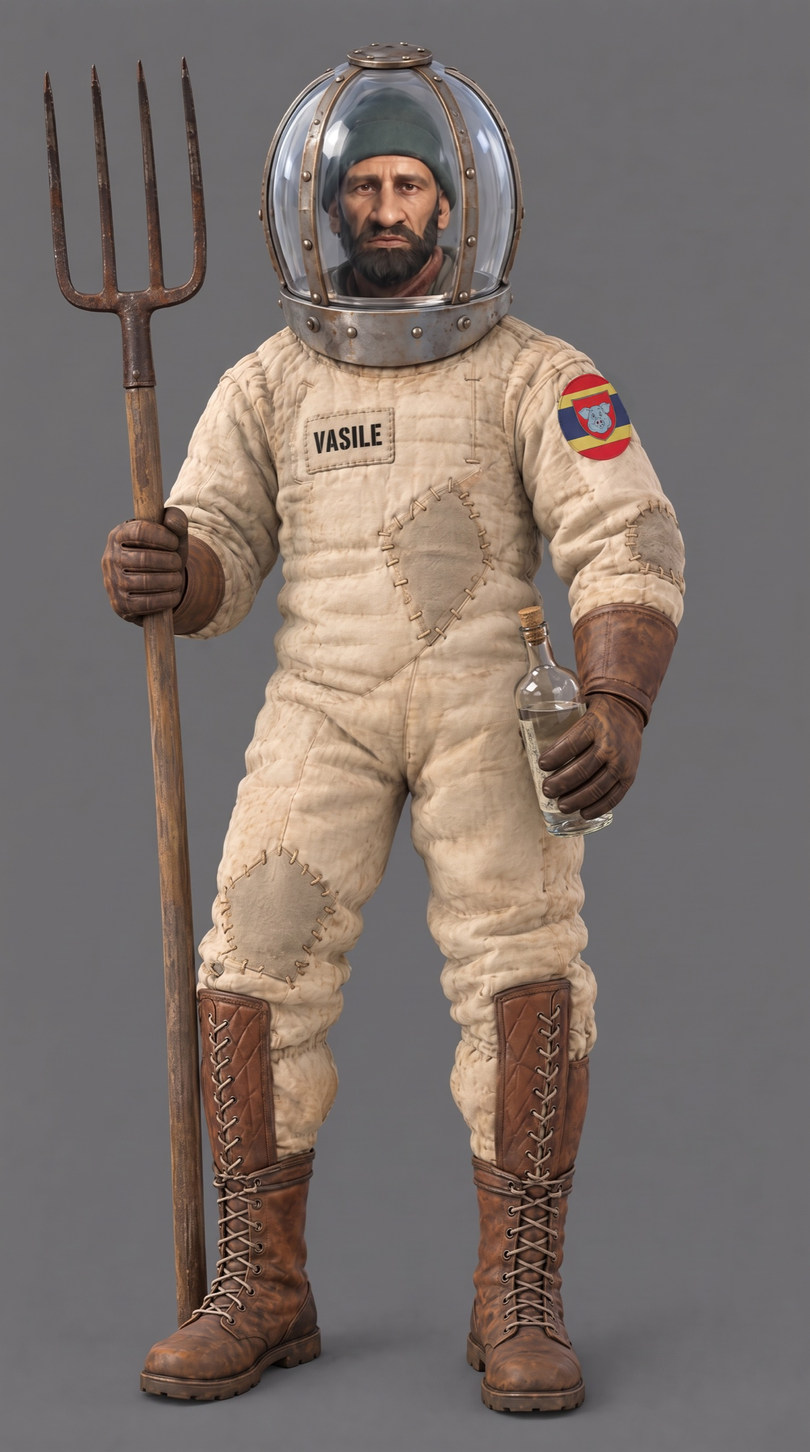
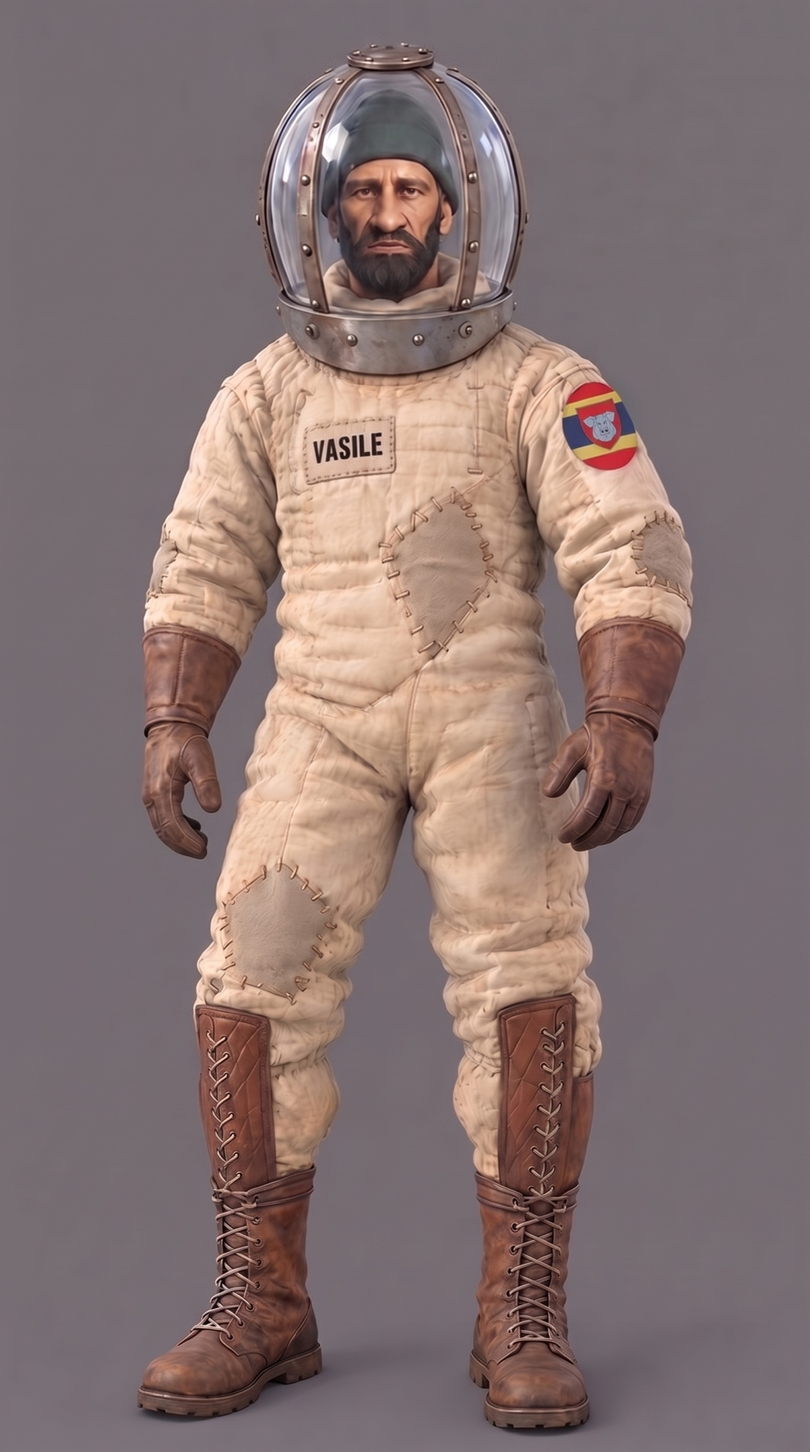
Storyboard update ecc5191705f4

Changed region(s): [[0.0306, 0.0312, 0.8574, 1.0]]

diff --git a/index.html b/index.html
@@ -768,7 +768,7 @@ problems are over"</blockquote>
   </footer>
 </div>
 
-<div id="panel-ep4" role="tabpanel" aria-labelledby="tab-ep4" hidden><section><div class="shead"><h2>Episode 4 — Star Wars</h2><span class="count">Working title · first draft</span></div><div class="rule"></div><p class="sintro">Aliens defeat every army on Earth. Humanity’s last hope is a village of drunks. Script from Nir, 16 September 2026. The references below identify the existing cast; the generals and alien portraits are approved; space costumes remain to be designed.</p><nav class="epnav"><a href="#ep4cast">Character references</a><a href="#ep4missing">New characters</a><a href="#ep4aliens">Choose an alien</a><a href="#ep4planned-images">Planned images</a><a href="#ep4beats">Story beats</a><a href="#ep4script">Full script</a></nav></section><section id="ep4cast"><div class="shead"><h2>Returning cast</h2><span class="count">5 leads + village extras</span></div><div class="rule"></div><div class="grid"><article class="card"><a class="frame full" href="img/full/characters/bribeanu/bribeanu-closeup.jpg" target="_blank" rel="noopener"><img loading="lazy" src="img/thumb/characters/bribeanu/bribeanu-closeup.jpg" alt="Bribeanu — existing 3D reference" data-full="img/full/characters/bribeanu/bribeanu-closeup.jpg" decoding="async"></a><div class="plate"><div class="namerow"><h3>Bribeanu</h3><span class="flag">EXISTING</span></div><p class="tell">The mayor who pretends not to understand English until the generals pay him.</p></div></article><article class="card"><a class="frame full" href="img/full/characters/vasile/vasile-closeup.jpg" target="_blank" rel="noopener"><img loading="lazy" src="img/thumb/characters/vasile/vasile-closeup.jpg" alt="Vasile — existing 3D reference" data-full="img/full/characters/vasile/vasile-closeup.jpg" decoding="async"></a><div class="plate"><div class="namerow"><h3>Vasile</h3><span class="flag">EXISTING</span></div><p class="tell">One of the two Vasluinauts, sent into space with a bottle and a pitchfork.</p></div></article><article class="card"><a class="frame full" href="img/full/characters/viorel/viorel-closeup.jpg" target="_blank" rel="noopener"><img loading="lazy" src="img/thumb/characters/viorel/viorel-closeup.jpg" alt="Viorel — existing 3D reference" data-full="img/full/characters/viorel/viorel-closeup.jpg" decoding="async"></a><div class="plate"><div class="namerow"><h3>Viorel</h3><span class="flag">EXISTING</span></div><p class="tell">The other Vasluinaut, who takes his axe into space.</p></div></article><article class="card"><a class="frame full" href="img/full/characters/valeriu/valeriu-closeup.jpg" target="_blank" rel="noopener"><img loading="lazy" src="img/thumb/characters/valeriu/valeriu-closeup.jpg" alt="Valeriu — existing 3D reference" data-full="img/full/characters/valeriu/valeriu-closeup.jpg" decoding="async"></a><div class="plate"><div class="namerow"><h3>Valeriu</h3><span class="flag">EXISTING</span></div><p class="tell">The pig who pilots the onion ship and pumps the Mona.</p></div></article><article class="card"><a class="frame full" href="img/full/characters/radu/radu-closeup.jpg" target="_blank" rel="noopener"><img loading="lazy" src="img/thumb/characters/radu/radu-closeup.jpg" alt="Radu — existing 3D reference" data-full="img/full/characters/radu/radu-closeup.jpg" decoding="async"></a><div class="plate"><div class="namerow"><h3>Radu</h3><span class="flag">EXISTING</span></div><p class="tell">The heavy old drunk who launches the onion ship.</p></div></article><article class="card"><a class="frame full" href="img/full/characters/_villagers/vaslui-villagers-men-01.jpg" target="_blank" rel="noopener"><img loading="lazy" src="img/thumb/characters/_villagers/vaslui-villagers-men-01.jpg" alt="Village men — existing 3D reference" data-full="img/full/characters/_villagers/vaslui-villagers-men-01.jpg" decoding="async"></a><div class="plate"><div class="namerow"><h3>Village men</h3><span class="flag">EXISTING</span></div><p class="tell">The drunk men in the crowd at the launch.</p></div></article><article class="card"><a class="frame full" href="img/full/characters/_villagers/vaslui-villagers-women-01.jpg" target="_blank" rel="noopener"><img loading="lazy" src="img/thumb/characters/_villagers/vaslui-villagers-women-01.jpg" alt="Village women — existing 3D reference" data-full="img/full/characters/_villagers/vaslui-villagers-women-01.jpg" decoding="async"></a><div class="plate"><div class="namerow"><h3>Village women</h3><span class="flag">EXISTING</span></div><p class="tell">The village women in the crowd at the launch.</p></div></article></div></section><section id="ep4missing"><div class="shead"><h2>New characters</h2><span class="count">2 approved · 2 still to choose</span></div><div class="rule"></div><div class="grid"><article class="card"><a class="frame full" href="img/full/characters/general-01/general-01-closeup.jpg" target="_blank" rel="noopener"><img loading="lazy" src="img/thumb/characters/general-01/general-01-closeup.jpg" alt="General 01 — approved portrait" data-full="img/full/characters/general-01/general-01-closeup.jpg" decoding="async"></a><div class="plate"><div class="namerow"><h3>General 01</h3><span class="flag">APPROVED</span></div><p class="tell">The silver-haired general sent to Vaslui to beg the mayor for help.</p></div></article><article class="card"><a class="frame full" href="img/full/characters/general-02/general-02-closeup.jpg" target="_blank" rel="noopener"><img loading="lazy" src="img/thumb/characters/general-02/general-02-closeup.jpg" alt="General 02 — approved portrait" data-full="img/full/characters/general-02/general-02-closeup.jpg" decoding="async"></a><div class="plate"><div class="namerow"><h3>General 02</h3><span class="flag">APPROVED</span></div><p class="tell">The second general sent to Vaslui to recruit the village.</p></div></article><article class="card"><div class="pending">NOT CHOSEN YET</div><div class="plate"><div class="namerow"><h3>Alien commander</h3><span class="flag">PENDING</span></div><p class="tell">Chosen from the alien vote below.</p></div></article><article class="card"><div class="pending">NOT CHOSEN YET</div><div class="plate"><div class="namerow"><h3>Alien crew</h3><span class="flag">PENDING</span></div><p class="tell">Chosen from the alien vote below.</p></div></article></div></section><section id="ep4aliens"><div class="shead"><h2>Choose your favourite alien</h2><span class="count">3 options</span></div><div class="rule"></div><p class="sintro">The three directions that got a like. Open each one, like the one you connect with most, and leave a comment on anything you would change.</p><div class="grid"><article class="card"><a class="frame full" href="img/full/episodes/ep-04-starwars/references/alien-options/alien-B-officer.jpg" target="_blank" rel="noopener"><img loading="lazy" src="img/thumb/episodes/ep-04-starwars/references/alien-options/alien-B-officer.jpg" alt="Alien option B: The Officer" data-full="img/full/episodes/ep-04-starwars/references/alien-options/alien-B-officer.jpg" decoding="async"></a><div class="plate"><div class="namerow"><h3>Alien B — The Officer</h3><span class="flag">OPTION B</span></div><p class="tell">A tall insect general who looks down on humanity from a very long head.</p></div></article><article class="card"><a class="frame full" href="img/full/episodes/ep-04-starwars/references/alien-options/alien-C-bureaucrat.jpg" target="_blank" rel="noopener"><img loading="lazy" src="img/thumb/episodes/ep-04-starwars/references/alien-options/alien-C-bureaucrat.jpg" alt="Alien option C: The Bureaucrat" data-full="img/full/episodes/ep-04-starwars/references/alien-options/alien-C-bureaucrat.jpg" decoding="async"></a><div class="plate"><div class="namerow"><h3>Alien C — The Bureaucrat</h3><span class="flag">OPTION C</span></div><p class="tell">A senior clerk of a superior civilisation, with a giant brain and a sour little face.</p></div></article><article class="card"><a class="frame full" href="img/full/characters/alien-commander/alien-commander-closeup.jpg" target="_blank" rel="noopener"><img loading="lazy" src="img/thumb/characters/alien-commander/alien-commander-closeup.jpg" alt="Alien H — Blue Commander" data-full="img/full/characters/alien-commander/alien-commander-closeup.jpg" decoding="async"></a><div class="plate"><div class="namerow"><h3>Alien H — Blue Commander</h3><span class="flag">OPTION H</span></div><p class="tell">A muscular blue warrior who leads the same species as the Blue Soldier.</p></div></article></div></section><section><h2>Props and costumes</h2><div class="grid"><article class="card"><a class="frame full" href="img/full/props/mona/mona-alcool-sanitar.jpg" target="_blank" rel="noopener"><img loading="lazy" src="img/thumb/props/mona/mona-alcool-sanitar.jpg" alt="Mona — existing 3D reference" data-full="img/full/props/mona/mona-alcool-sanitar.jpg" decoding="async"></a><div class="plate"><div class="namerow"><h3>Mona</h3><span class="flag">EXISTING</span></div><p class="tell">The rubbing alcohol that wins the war, and the label for the giant tank.</p></div></article><article class="card"><a class="frame full" href="img/full/downloads/2026-09-17/02_vaslui-flag-REAL-valeriu-shield.jpg" target="_blank" rel="noopener"><img loading="lazy" src="img/thumb/downloads/2026-09-17/02_vaslui-flag-REAL-valeriu-shield.jpg" alt="The Vaslui flag — approved design" data-full="img/full/downloads/2026-09-17/02_vaslui-flag-REAL-valeriu-shield.jpg" decoding="async"></a><div class="plate"><div class="namerow"><h3>The Vaslui flag</h3><span class="flag">APPROVED</span></div><p class="tell">The real county flag, with Valeriu's face filling the shield in place of the beehive, fish and ox. Goes on the ship and on the spacesuit shoulders.</p></div></article></div><p class="sintro">Still to design: Vasile and Viorel’s spacesuits, Valeriu’s spacesuit, the onion ship (inside and outside), alien mothership, mayor’s office, Mona tank and hose. The chest patches read VASILE / VIOREL; the shoulders carry the Vaslui flag above.</p></section><section id="ep4planned-images"><div class="shead"><h2>Planned images</h2><span class="count">4 references to prepare</span></div><div class="rule"></div><div class="grid"><article class="card" id="ep4-vaslui-ship-exterior"><a class="frame full" href="img/full/episodes/ep-04-starwars/references/ship/ship-exterior-approved.jpg" target="_blank" rel="noopener"><img loading="lazy" src="img/thumb/episodes/ep-04-starwars/references/ship/ship-exterior-approved.jpg" alt="Vasluian ship — exterior, approved" data-full="img/full/episodes/ep-04-starwars/references/ship/ship-exterior-approved.jpg" decoding="async"></a><div class="plate"><div class="namerow"><h3>Vasluian ship — exterior</h3><span class="flag">APPROVED</span></div><p class="tell">Redesigned 17 Sep 2026: the hull is now literal onion skin — pale papery ivory-cream, crinkled and striated like a real onion, with loose skin-flap repairs tied down with twine instead of welded metal patches. Replaces the earlier bare-metal version.</p></div></article><article class="card" id="ep4-vaslui-ship-interior"><div class="pending">IMAGE PENDING</div><div class="plate"><h3>Vasluian ship — interior</h3><p class="tell">Pig pilot’s cockpit, Mona tank area and exit hatch.</p></div></article><article class="card" id="ep4-alien-ship-exterior"><div class="pending">IMAGE PENDING</div><div class="plate"><h3>Alien mothership — exterior</h3><p class="tell">Exterior design of the alien mothership.</p></div></article><article class="card" id="ep4-alien-ship-interior"><div class="pending">IMAGE PENDING</div><div class="plate"><h3>Alien mothership — interior</h3><p class="tell">Command bridge and screen, with room for the Mona flood and final scene.</p></div></article><article class="card" id="ep4-mayor-office"><a class="frame full" href="img/full/locations/bribeanu-office/bribeanu-office-9x16.jpg" target="_blank" rel="noopener"><img loading="lazy" src="img/thumb/locations/bribeanu-office/bribeanu-office-9x16.jpg" alt="Bribeanu’s office — approved location" data-full="img/full/locations/bribeanu-office/bribeanu-office-9x16.jpg" decoding="async"></a><div class="plate"><div class="namerow"><h3>Bribeanu’s office</h3><span class="flag">APPROVED</span></div><p class="tell">The mayor’s gold-trimmed office, far too grand for the muddy village outside its window.</p></div></article><article class="card" id="ep4-launch-site"><a class="frame full" href="img/full/episodes/ep-04-starwars/references/launch-site/launch-site-approved.jpg" target="_blank" rel="noopener"><img loading="lazy" src="img/thumb/episodes/ep-04-starwars/references/launch-site/launch-site-approved.jpg" alt="Village launch site — approved" data-full="img/full/episodes/ep-04-starwars/references/launch-site/launch-site-approved.jpg" decoding="async"></a><div class="plate"><div class="namerow"><h3>Village launch site</h3><span class="flag">APPROVED</span></div><p class="tell">Episode 1's village square, the wooden stage replaced by the ship standing directly on the ground — roughly twice the height of the surrounding cottages, braced by a small crane (not attached, so it can still fly), a low dingy maintenance shed, and a red launch-button post in the foreground. The tree stands clear of the ship's path. Updated 17 Sep 2026 for the ship's new onion-skin hull.</p></div></article><article class="card" id="ep4-suit-design"><a class="frame full" href="img/full/episodes/ep-04-starwars/references/spacesuit/suit-design-approved.jpg" target="_blank" rel="noopener"><img loading="lazy" src="img/thumb/episodes/ep-04-starwars/references/spacesuit/suit-design-approved.jpg" alt="The antique spacesuit design — approved, empty" data-full="img/full/episodes/ep-04-starwars/references/spacesuit/suit-design-approved.jpg" decoding="async"></a><div class="plate"><div class="namerow"><h3>Spacesuit design</h3><span class="flag">APPROVED</span></div><p class="tell">Antique diving-style suit — mended canvas, panoramic glass dome helmet, Vaslui flag patch on the right shoulder. Shown empty; each lead gets dressed in this same design next.</p></div></article><article class="card" id="ep4-vasile-spacesuit"><a class="frame full" href="img/full/characters/vasile/vasile-spacesuit.jpg" target="_blank" rel="noopener"><img loading="lazy" src="img/thumb/characters/vasile/vasile-spacesuit.jpg" alt="Vasile — spacesuit — approved" data-full="img/full/characters/vasile/vasile-spacesuit.jpg" decoding="async"></a><div class="plate"><div class="namerow"><h3>Vasile — spacesuit</h3><span class="flag">APPROVED</span></div><p class="tell">Vasile suited up for space, with his pitchfork and a bottle.</p></div></article><article class="card" id="ep4-vasile-inside"><a class="frame full" href="img/full/characters/vasile/vasile-spacesuit-nohelmet.jpg" target="_blank" rel="noopener"><img loading="lazy" src="img/thumb/characters/vasile/vasile-spacesuit-nohelmet.jpg" alt="Vasile — inside the ship — approved" data-full="img/full/characters/vasile/vasile-spacesuit-nohelmet.jpg" decoding="async"></a><div class="plate"><div class="namerow"><h3>Vasile — inside the ship</h3><span class="flag">APPROVED</span></div><p class="tell">Vasile in his spacesuit without the helmet, the way he walks around inside the ship.</p></div></article><article class="card" id="ep4-viorel-spacesuit"><a class="frame full" href="img/full/characters/viorel/viorel-spacesuit.jpg" target="_blank" rel="noopener"><img loading="lazy" src="img/thumb/characters/viorel/viorel-spacesuit.jpg" alt="Viorel — spacesuit — approved" data-full="img/full/characters/viorel/viorel-spacesuit.jpg" decoding="async"></a><div class="plate"><div class="namerow"><h3>Viorel — spacesuit</h3><span class="flag">APPROVED</span></div><p class="tell">Viorel suited up for space, with his red hatchet.</p></div></article><article class="card" id="ep4-viorel-inside"><a class="frame full" href="img/full/characters/viorel/viorel-spacesuit-nohelmet.jpg" target="_blank" rel="noopener"><img loading="lazy" src="img/thumb/characters/viorel/viorel-spacesuit-nohelmet.jpg" alt="Viorel — inside the ship — approved" data-full="img/full/characters/viorel/viorel-spacesuit-nohelmet.jpg" decoding="async"></a><div class="plate"><div class="namerow"><h3>Viorel — inside the ship</h3><span class="flag">APPROVED</span></div><p class="tell">Viorel in his spacesuit without the helmet, the way he walks around inside the ship.</p></div></article><article class="card" id="ep4-valeriu-spacesuit"><a class="frame full" href="img/full/characters/valeriu/valeriu-spacesuit.jpg" target="_blank" rel="noopener"><img loading="lazy" src="img/thumb/characters/valeriu/valeriu-spacesuit.jpg" alt="Valeriu — spacesuit, approved" data-full="img/full/characters/valeriu/valeriu-spacesuit.jpg" decoding="async"></a><div class="plate"><div class="namerow"><h3>Valeriu — spacesuit</h3><span class="flag">APPROVED</span></div><p class="tell">Same suit design, adapted to his four-legged body: cloven hooves, the hat mounted on the helmet crown with a few curls showing through the glass, his exact gold Vaslui chain worn over the suit.</p></div></article><article class="card" id="ep4-valeriu-inside"><a class="frame full" href="img/full/characters/valeriu/valeriu-spacesuit-nohelmet.jpg" target="_blank" rel="noopener"><img loading="lazy" src="img/thumb/characters/valeriu/valeriu-spacesuit-nohelmet.jpg" alt="Valeriu — inside the ship — approved" data-full="img/full/characters/valeriu/valeriu-spacesuit-nohelmet.jpg" decoding="async"></a><div class="plate"><div class="namerow"><h3>Valeriu — inside the ship</h3><span class="flag">APPROVED</span></div><p class="tell">Valeriu in his pig spacesuit without the helmet, gold chain on, the way he flies the ship.</p></div></article><article class="card" id="ep4-mona-tank"><a class="frame full" href="img/full/episodes/ep-04-starwars/_work/vasluian-ship-mona-tank/mona-tank-v4-gpt25.jpg" target="_blank" rel="noopener"><img loading="lazy" src="img/thumb/episodes/ep-04-starwars/_work/vasluian-ship-mona-tank/mona-tank-v4-gpt25.jpg" alt="Mona tank — approved" data-full="img/full/episodes/ep-04-starwars/_work/vasluian-ship-mona-tank/mona-tank-v4-gpt25.jpg" decoding="async"></a><div class="plate"><div class="namerow"><h3>Mona tank</h3><span class="flag">APPROVED</span></div><p class="tell">The Mona weapon tank, wall-mounted inside the ship — a wide, bulky tank roughly 2m tall and 1m wide, with a visible internal dip-tube in the liquid and a transparent feed line running up to the ceiling. Shot pulled back to show the tank's true scale against the room.</p></div></article><article class="card" id="ep4-mona-hose"><div class="pending">IMAGE PENDING</div><div class="plate"><h3>Hose and coupling</h3><p class="tell">Large hose and connector for the alien ship.</p></div></article></div></section><section id="ep4beats"><h2>The story, in order</h2><p class="sintro">Ten story beats from the draft; shot timing is not locked.</p><div class="beats"><article class="beat"><span class="count">01 · British narrator · alien ships</span><h3>Earth under invasion</h3><p>Alien ships hover over familiar landmarks while the British narrator describes humanity’s defeat.</p></article><article class="beat"><span class="count">02 · Bribeanu · army generals</span><h3>The last hope</h3><p>Generals ask Mayor Bribeanu to deploy the Vasluians. He claims not to understand their English.</p></article><article class="beat"><span class="count">03 · Bribeanu · army generals</span><h3>The bribe</h3><p>Cash lands on the desk. Bribeanu switches to perfect English: “Deploy the Vasluinauts!”</p></article><article class="beat"><span class="count">04 · Radu · Valeriu · village crowd</span><h3>Launch</h3><p>Radu launches a battered onion-shaped spaceship from muddy Vaslui, with Valeriu at the controls.</p></article><article class="beat"><span class="count">05 · Spaceships</span><h3>Face to face</h3><p>The village ship approaches the alien mothership in space.</p></article><article class="beat"><span class="count">06 · Vasile · Viorel</span><h3>The Vasluinauts</h3><p>Vasile and Viorel emerge in antique diving-style spacesuits, carrying a bottle, pitchfork and axe.</p></article><article class="beat"><span class="count">07 · Alien commander · alien crew</span><h3>Alien laughter</h3><p>The commander and crew watch the two villagers on their screen and laugh.</p></article><article class="beat"><span class="count">08 · Valeriu · Vasile · Viorel</span><h3>The hose</h3><p>Valeriu drags the hose from the huge Mona tank; Vasile and Viorel attach it to the alien ship.</p></article><article class="beat"><span class="count">09 · Valeriu · alien commander and crew</span><h3>Mona attack</h3><p>Valeriu presses the red button. Mona floods the ship; the aliens become drunk, then drop dead.</p></article><article class="beat"><span class="count">10 · Vasile · Viorel · alien commander</span><h3>The barbecue</h3><p>Inside the mothership, Vasile and Viorel spit-roast the alien commander and toast with their bottles.</p></article></div></section><section id="ep4script"><div class="shead"><h2>Full script</h2><a href="files/episodes/ep-04-starwars/script/ep-04-client-original.txt">Open original script</a></div><div class="script"><pre class="client-script" style="white-space:pre-wrap;overflow-wrap:anywhere;font:inherit;line-height:1.7;color:var(--ink-soft);margin:0">Its first draft only:
+<div id="panel-ep4" role="tabpanel" aria-labelledby="tab-ep4" hidden><section><div class="shead"><h2>Episode 4 — Star Wars</h2><span class="count">Working title · first draft</span></div><div class="rule"></div><p class="sintro">Aliens defeat every army on Earth. Humanity’s last hope is a village of drunks. Script from Nir, 16 September 2026. The references below identify the existing cast; the generals and alien portraits are approved; space costumes remain to be designed.</p><nav class="epnav"><a href="#ep4cast">Character references</a><a href="#ep4missing">New characters</a><a href="#ep4aliens">Choose an alien</a><a href="#ep4planned-images">Planned images</a><a href="#ep4beats">Story beats</a><a href="#ep4script">Full script</a></nav></section><section id="ep4cast"><div class="shead"><h2>Returning cast</h2><span class="count">5 leads + village extras</span></div><div class="rule"></div><div class="grid"><article class="card"><a class="frame full" href="img/full/characters/bribeanu/bribeanu-closeup.jpg" target="_blank" rel="noopener"><img loading="lazy" src="img/thumb/characters/bribeanu/bribeanu-closeup.jpg" alt="Bribeanu — existing 3D reference" data-full="img/full/characters/bribeanu/bribeanu-closeup.jpg" decoding="async"></a><div class="plate"><div class="namerow"><h3>Bribeanu</h3><span class="flag">EXISTING</span></div><p class="tell">The mayor who pretends not to understand English until the generals pay him.</p></div></article><article class="card"><a class="frame full" href="img/full/characters/vasile/vasile-closeup.jpg" target="_blank" rel="noopener"><img loading="lazy" src="img/thumb/characters/vasile/vasile-closeup.jpg" alt="Vasile — existing 3D reference" data-full="img/full/characters/vasile/vasile-closeup.jpg" decoding="async"></a><div class="plate"><div class="namerow"><h3>Vasile</h3><span class="flag">EXISTING</span></div><p class="tell">One of the two Vasluinauts, sent into space with a bottle and a pitchfork.</p></div></article><article class="card"><a class="frame full" href="img/full/characters/viorel/viorel-closeup.jpg" target="_blank" rel="noopener"><img loading="lazy" src="img/thumb/characters/viorel/viorel-closeup.jpg" alt="Viorel — existing 3D reference" data-full="img/full/characters/viorel/viorel-closeup.jpg" decoding="async"></a><div class="plate"><div class="namerow"><h3>Viorel</h3><span class="flag">EXISTING</span></div><p class="tell">The other Vasluinaut, who takes his axe into space.</p></div></article><article class="card"><a class="frame full" href="img/full/characters/valeriu/valeriu-closeup.jpg" target="_blank" rel="noopener"><img loading="lazy" src="img/thumb/characters/valeriu/valeriu-closeup.jpg" alt="Valeriu — existing 3D reference" data-full="img/full/characters/valeriu/valeriu-closeup.jpg" decoding="async"></a><div class="plate"><div class="namerow"><h3>Valeriu</h3><span class="flag">EXISTING</span></div><p class="tell">The pig who pilots the onion ship and pumps the Mona.</p></div></article><article class="card"><a class="frame full" href="img/full/characters/radu/radu-closeup.jpg" target="_blank" rel="noopener"><img loading="lazy" src="img/thumb/characters/radu/radu-closeup.jpg" alt="Radu — existing 3D reference" data-full="img/full/characters/radu/radu-closeup.jpg" decoding="async"></a><div class="plate"><div class="namerow"><h3>Radu</h3><span class="flag">EXISTING</span></div><p class="tell">The heavy old drunk who launches the onion ship.</p></div></article><article class="card"><a class="frame full" href="img/full/characters/_villagers/vaslui-villagers-men-01.jpg" target="_blank" rel="noopener"><img loading="lazy" src="img/thumb/characters/_villagers/vaslui-villagers-men-01.jpg" alt="Village men — existing 3D reference" data-full="img/full/characters/_villagers/vaslui-villagers-men-01.jpg" decoding="async"></a><div class="plate"><div class="namerow"><h3>Village men</h3><span class="flag">EXISTING</span></div><p class="tell">The drunk men in the crowd at the launch.</p></div></article><article class="card"><a class="frame full" href="img/full/characters/_villagers/vaslui-villagers-women-01.jpg" target="_blank" rel="noopener"><img loading="lazy" src="img/thumb/characters/_villagers/vaslui-villagers-women-01.jpg" alt="Village women — existing 3D reference" data-full="img/full/characters/_villagers/vaslui-villagers-women-01.jpg" decoding="async"></a><div class="plate"><div class="namerow"><h3>Village women</h3><span class="flag">EXISTING</span></div><p class="tell">The village women in the crowd at the launch.</p></div></article></div></section><section id="ep4missing"><div class="shead"><h2>New characters</h2><span class="count">2 approved · 2 still to choose</span></div><div class="rule"></div><div class="grid"><article class="card"><a class="frame full" href="img/full/characters/general-01/general-01-closeup.jpg" target="_blank" rel="noopener"><img loading="lazy" src="img/thumb/characters/general-01/general-01-closeup.jpg" alt="General 01 — approved portrait" data-full="img/full/characters/general-01/general-01-closeup.jpg" decoding="async"></a><div class="plate"><div class="namerow"><h3>General 01</h3><span class="flag">APPROVED</span></div><p class="tell">The silver-haired general sent to Vaslui to beg the mayor for help.</p></div></article><article class="card"><a class="frame full" href="img/full/characters/general-02/general-02-closeup.jpg" target="_blank" rel="noopener"><img loading="lazy" src="img/thumb/characters/general-02/general-02-closeup.jpg" alt="General 02 — approved portrait" data-full="img/full/characters/general-02/general-02-closeup.jpg" decoding="async"></a><div class="plate"><div class="namerow"><h3>General 02</h3><span class="flag">APPROVED</span></div><p class="tell">The second general sent to Vaslui to recruit the village.</p></div></article><article class="card"><div class="pending">NOT CHOSEN YET</div><div class="plate"><div class="namerow"><h3>Alien commander</h3><span class="flag">PENDING</span></div><p class="tell">Chosen from the alien vote below.</p></div></article><article class="card"><div class="pending">NOT CHOSEN YET</div><div class="plate"><div class="namerow"><h3>Alien crew</h3><span class="flag">PENDING</span></div><p class="tell">Chosen from the alien vote below.</p></div></article></div></section><section id="ep4aliens"><div class="shead"><h2>Choose your favourite alien</h2><span class="count">3 options</span></div><div class="rule"></div><p class="sintro">The three directions that got a like. Open each one, like the one you connect with most, and leave a comment on anything you would change.</p><div class="grid"><article class="card"><a class="frame full" href="img/full/episodes/ep-04-starwars/references/alien-options/alien-B-officer.jpg" target="_blank" rel="noopener"><img loading="lazy" src="img/thumb/episodes/ep-04-starwars/references/alien-options/alien-B-officer.jpg" alt="Alien option B: The Officer" data-full="img/full/episodes/ep-04-starwars/references/alien-options/alien-B-officer.jpg" decoding="async"></a><div class="plate"><div class="namerow"><h3>Alien B — The Officer</h3><span class="flag">OPTION B</span></div><p class="tell">A tall insect general who looks down on humanity from a very long head.</p></div></article><article class="card"><a class="frame full" href="img/full/episodes/ep-04-starwars/references/alien-options/alien-C-bureaucrat.jpg" target="_blank" rel="noopener"><img loading="lazy" src="img/thumb/episodes/ep-04-starwars/references/alien-options/alien-C-bureaucrat.jpg" alt="Alien option C: The Bureaucrat" data-full="img/full/episodes/ep-04-starwars/references/alien-options/alien-C-bureaucrat.jpg" decoding="async"></a><div class="plate"><div class="namerow"><h3>Alien C — The Bureaucrat</h3><span class="flag">OPTION C</span></div><p class="tell">A senior clerk of a superior civilisation, with a giant brain and a sour little face.</p></div></article><article class="card"><a class="frame full" href="img/full/characters/alien-commander/alien-commander-closeup.jpg" target="_blank" rel="noopener"><img loading="lazy" src="img/thumb/characters/alien-commander/alien-commander-closeup.jpg" alt="Alien H — Blue Commander" data-full="img/full/characters/alien-commander/alien-commander-closeup.jpg" decoding="async"></a><div class="plate"><div class="namerow"><h3>Alien H — Blue Commander</h3><span class="flag">OPTION H</span></div><p class="tell">A muscular blue warrior who leads the same species as the Blue Soldier.</p></div></article></div></section><section><h2>Props and costumes</h2><div class="grid"><article class="card"><a class="frame full" href="img/full/props/mona/mona-alcool-sanitar.jpg" target="_blank" rel="noopener"><img loading="lazy" src="img/thumb/props/mona/mona-alcool-sanitar.jpg" alt="Mona — existing 3D reference" data-full="img/full/props/mona/mona-alcool-sanitar.jpg" decoding="async"></a><div class="plate"><div class="namerow"><h3>Mona</h3><span class="flag">EXISTING</span></div><p class="tell">The rubbing alcohol that wins the war, and the label for the giant tank.</p></div></article><article class="card"><a class="frame full" href="img/full/downloads/2026-09-17/02_vaslui-flag-REAL-valeriu-shield.jpg" target="_blank" rel="noopener"><img loading="lazy" src="img/thumb/downloads/2026-09-17/02_vaslui-flag-REAL-valeriu-shield.jpg" alt="The Vaslui flag — approved design" data-full="img/full/downloads/2026-09-17/02_vaslui-flag-REAL-valeriu-shield.jpg" decoding="async"></a><div class="plate"><div class="namerow"><h3>The Vaslui flag</h3><span class="flag">APPROVED</span></div><p class="tell">The real county flag, with Valeriu's face filling the shield in place of the beehive, fish and ox. Goes on the ship and on the spacesuit shoulders.</p></div></article></div><p class="sintro">Still to design: Vasile and Viorel’s spacesuits, Valeriu’s spacesuit, the onion ship (inside and outside), alien mothership, mayor’s office, Mona tank and hose. The chest patches read VASILE / VIOREL; the shoulders carry the Vaslui flag above.</p></section><section id="ep4planned-images"><div class="shead"><h2>Planned images</h2><span class="count">4 references to prepare</span></div><div class="rule"></div><div class="grid"><article class="card" id="ep4-vaslui-ship-exterior"><a class="frame full" href="img/full/episodes/ep-04-starwars/references/ship/ship-exterior-approved.jpg" target="_blank" rel="noopener"><img loading="lazy" src="img/thumb/episodes/ep-04-starwars/references/ship/ship-exterior-approved.jpg" alt="Vasluian ship — exterior, approved" data-full="img/full/episodes/ep-04-starwars/references/ship/ship-exterior-approved.jpg" decoding="async"></a><div class="plate"><div class="namerow"><h3>Vasluian ship — exterior</h3><span class="flag">APPROVED</span></div><p class="tell">Redesigned 17 Sep 2026: the hull is now literal onion skin — pale papery ivory-cream, crinkled and striated like a real onion, with loose skin-flap repairs tied down with twine instead of welded metal patches. Replaces the earlier bare-metal version.</p></div></article><article class="card" id="ep4-vaslui-ship-interior"><div class="pending">IMAGE PENDING</div><div class="plate"><h3>Vasluian ship — interior</h3><p class="tell">Pig pilot’s cockpit, Mona tank area and exit hatch.</p></div></article><article class="card" id="ep4-alien-ship-exterior"><div class="pending">IMAGE PENDING</div><div class="plate"><h3>Alien mothership — exterior</h3><p class="tell">Exterior design of the alien mothership.</p></div></article><article class="card" id="ep4-alien-ship-interior"><div class="pending">IMAGE PENDING</div><div class="plate"><h3>Alien mothership — interior</h3><p class="tell">Command bridge and screen, with room for the Mona flood and final scene.</p></div></article><article class="card" id="ep4-mayor-office"><a class="frame full" href="img/full/locations/bribeanu-office/bribeanu-office-9x16.jpg" target="_blank" rel="noopener"><img loading="lazy" src="img/thumb/locations/bribeanu-office/bribeanu-office-9x16.jpg" alt="Bribeanu’s office — approved location" data-full="img/full/locations/bribeanu-office/bribeanu-office-9x16.jpg" decoding="async"></a><div class="plate"><div class="namerow"><h3>Bribeanu’s office</h3><span class="flag">APPROVED</span></div><p class="tell">The mayor’s gold-trimmed office, far too grand for the muddy village outside its window.</p></div></article><article class="card" id="ep4-launch-site"><a class="frame full" href="img/full/episodes/ep-04-starwars/references/launch-site/launch-site-approved.jpg" target="_blank" rel="noopener"><img loading="lazy" src="img/thumb/episodes/ep-04-starwars/references/launch-site/launch-site-approved.jpg" alt="Village launch site — approved" data-full="img/full/episodes/ep-04-starwars/references/launch-site/launch-site-approved.jpg" decoding="async"></a><div class="plate"><div class="namerow"><h3>Village launch site</h3><span class="flag">APPROVED</span></div><p class="tell">Episode 1's village square, the wooden stage replaced by the ship standing directly on the ground — roughly twice the height of the surrounding cottages, braced by a small crane (not attached, so it can still fly), a low dingy maintenance shed, and a red launch-button post in the foreground. The tree stands clear of the ship's path. Updated 17 Sep 2026 for the ship's new onion-skin hull.</p></div></article><article class="card" id="ep4-suit-design"><a class="frame full" href="img/full/episodes/ep-04-starwars/references/spacesuit/suit-design-approved.jpg" target="_blank" rel="noopener"><img loading="lazy" src="img/thumb/episodes/ep-04-starwars/references/spacesuit/suit-design-approved.jpg" alt="The antique spacesuit design — approved, empty" data-full="img/full/episodes/ep-04-starwars/references/spacesuit/suit-design-approved.jpg" decoding="async"></a><div class="plate"><div class="namerow"><h3>Spacesuit design</h3><span class="flag">APPROVED</span></div><p class="tell">Antique diving-style suit — mended canvas, panoramic glass dome helmet, Vaslui flag patch on the right shoulder. Shown empty; each lead gets dressed in this same design next.</p></div></article><article class="card" id="ep4-vasile-spacesuit"><a class="frame full" href="img/full/characters/vasile/vasile-spacesuit.jpg" target="_blank" rel="noopener"><img loading="lazy" src="img/thumb/characters/vasile/vasile-spacesuit.jpg" alt="Vasile — spacesuit — approved" data-full="img/full/characters/vasile/vasile-spacesuit.jpg" decoding="async"></a><div class="plate"><div class="namerow"><h3>Vasile — spacesuit</h3><span class="flag">APPROVED</span></div><p class="tell">Vasile suited up for space, helmet on, ready to step outside.</p></div></article><article class="card" id="ep4-vasile-inside"><a class="frame full" href="img/full/characters/vasile/vasile-spacesuit-nohelmet.jpg" target="_blank" rel="noopener"><img loading="lazy" src="img/thumb/characters/vasile/vasile-spacesuit-nohelmet.jpg" alt="Vasile — inside the ship — approved" data-full="img/full/characters/vasile/vasile-spacesuit-nohelmet.jpg" decoding="async"></a><div class="plate"><div class="namerow"><h3>Vasile — inside the ship</h3><span class="flag">APPROVED</span></div><p class="tell">Vasile in his spacesuit without the helmet, the way he walks around inside the ship.</p></div></article><article class="card" id="ep4-viorel-spacesuit"><a class="frame full" href="img/full/characters/viorel/viorel-spacesuit.jpg" target="_blank" rel="noopener"><img loading="lazy" src="img/thumb/characters/viorel/viorel-spacesuit.jpg" alt="Viorel — spacesuit — approved" data-full="img/full/characters/viorel/viorel-spacesuit.jpg" decoding="async"></a><div class="plate"><div class="namerow"><h3>Viorel — spacesuit</h3><span class="flag">APPROVED</span></div><p class="tell">Viorel suited up for space, with his red hatchet.</p></div></article><article class="card" id="ep4-viorel-inside"><a class="frame full" href="img/full/characters/viorel/viorel-spacesuit-nohelmet.jpg" target="_blank" rel="noopener"><img loading="lazy" src="img/thumb/characters/viorel/viorel-spacesuit-nohelmet.jpg" alt="Viorel — inside the ship — approved" data-full="img/full/characters/viorel/viorel-spacesuit-nohelmet.jpg" decoding="async"></a><div class="plate"><div class="namerow"><h3>Viorel — inside the ship</h3><span class="flag">APPROVED</span></div><p class="tell">Viorel in his spacesuit without the helmet, the way he walks around inside the ship.</p></div></article><article class="card" id="ep4-valeriu-spacesuit"><a class="frame full" href="img/full/characters/valeriu/valeriu-spacesuit.jpg" target="_blank" rel="noopener"><img loading="lazy" src="img/thumb/characters/valeriu/valeriu-spacesuit.jpg" alt="Valeriu — spacesuit, approved" data-full="img/full/characters/valeriu/valeriu-spacesuit.jpg" decoding="async"></a><div class="plate"><div class="namerow"><h3>Valeriu — spacesuit</h3><span class="flag">APPROVED</span></div><p class="tell">Same suit design, adapted to his four-legged body: cloven hooves, the hat mounted on the helmet crown with a few curls showing through the glass, his exact gold Vaslui chain worn over the suit.</p></div></article><article class="card" id="ep4-valeriu-inside"><a class="frame full" href="img/full/characters/valeriu/valeriu-spacesuit-nohelmet.jpg" target="_blank" rel="noopener"><img loading="lazy" src="img/thumb/characters/valeriu/valeriu-spacesuit-nohelmet.jpg" alt="Valeriu — inside the ship — approved" data-full="img/full/characters/valeriu/valeriu-spacesuit-nohelmet.jpg" decoding="async"></a><div class="plate"><div class="namerow"><h3>Valeriu — inside the ship</h3><span class="flag">APPROVED</span></div><p class="tell">Valeriu in his pig spacesuit without the helmet, gold chain on, the way he flies the ship.</p></div></article><article class="card" id="ep4-mona-tank"><a class="frame full" href="img/full/episodes/ep-04-starwars/_work/vasluian-ship-mona-tank/mona-tank-v4-gpt25.jpg" target="_blank" rel="noopener"><img loading="lazy" src="img/thumb/episodes/ep-04-starwars/_work/vasluian-ship-mona-tank/mona-tank-v4-gpt25.jpg" alt="Mona tank — approved" data-full="img/full/episodes/ep-04-starwars/_work/vasluian-ship-mona-tank/mona-tank-v4-gpt25.jpg" decoding="async"></a><div class="plate"><div class="namerow"><h3>Mona tank</h3><span class="flag">APPROVED</span></div><p class="tell">The Mona weapon tank, wall-mounted inside the ship — a wide, bulky tank roughly 2m tall and 1m wide, with a visible internal dip-tube in the liquid and a transparent feed line running up to the ceiling. Shot pulled back to show the tank's true scale against the room.</p></div></article><article class="card" id="ep4-mona-hose"><div class="pending">IMAGE PENDING</div><div class="plate"><h3>Hose and coupling</h3><p class="tell">Large hose and connector for the alien ship.</p></div></article></div></section><section id="ep4beats"><h2>The story, in order</h2><p class="sintro">Ten story beats from the draft; shot timing is not locked.</p><div class="beats"><article class="beat"><span class="count">01 · British narrator · alien ships</span><h3>Earth under invasion</h3><p>Alien ships hover over familiar landmarks while the British narrator describes humanity’s defeat.</p></article><article class="beat"><span class="count">02 · Bribeanu · army generals</span><h3>The last hope</h3><p>Generals ask Mayor Bribeanu to deploy the Vasluians. He claims not to understand their English.</p></article><article class="beat"><span class="count">03 · Bribeanu · army generals</span><h3>The bribe</h3><p>Cash lands on the desk. Bribeanu switches to perfect English: “Deploy the Vasluinauts!”</p></article><article class="beat"><span class="count">04 · Radu · Valeriu · village crowd</span><h3>Launch</h3><p>Radu launches a battered onion-shaped spaceship from muddy Vaslui, with Valeriu at the controls.</p></article><article class="beat"><span class="count">05 · Spaceships</span><h3>Face to face</h3><p>The village ship approaches the alien mothership in space.</p></article><article class="beat"><span class="count">06 · Vasile · Viorel</span><h3>The Vasluinauts</h3><p>Vasile and Viorel emerge in antique diving-style spacesuits, carrying a bottle, pitchfork and axe.</p></article><article class="beat"><span class="count">07 · Alien commander · alien crew</span><h3>Alien laughter</h3><p>The commander and crew watch the two villagers on their screen and laugh.</p></article><article class="beat"><span class="count">08 · Valeriu · Vasile · Viorel</span><h3>The hose</h3><p>Valeriu drags the hose from the huge Mona tank; Vasile and Viorel attach it to the alien ship.</p></article><article class="beat"><span class="count">09 · Valeriu · alien commander and crew</span><h3>Mona attack</h3><p>Valeriu presses the red button. Mona floods the ship; the aliens become drunk, then drop dead.</p></article><article class="beat"><span class="count">10 · Vasile · Viorel · alien commander</span><h3>The barbecue</h3><p>Inside the mothership, Vasile and Viorel spit-roast the alien commander and toast with their bottles.</p></article></div></section><section id="ep4script"><div class="shead"><h2>Full script</h2><a href="files/episodes/ep-04-starwars/script/ep-04-client-original.txt">Open original script</a></div><div class="script"><pre class="client-script" style="white-space:pre-wrap;overflow-wrap:anywhere;font:inherit;line-height:1.7;color:var(--ink-soft);margin:0">Its first draft only:
 
 Alien spaceships seen hovering over major cities on earth (use known landmarks)
  
@@ -990,7 +990,7 @@ a.frame{display:block}.pending{display:grid;place-items:center;min-height:130px;
 })();
 </script>
 
-<script>window.STORYBOARD_FEEDBACK = {"supabaseUrl": "https://xwgtmynpkplxlltifhes.supabase.co", "supabaseAnonKey": "eyJhbGciOiJIUzI1NiIsInR5cCI6IkpXVCJ9.eyJpc3MiOiJzdXBhYmFzZSIsInJlZiI6Inh3Z3RteW5wa3BseGxsdGlmaGVzIiwicm9sZSI6ImFub24iLCJpYXQiOjE3Njk0ODA2ODEsImV4cCI6MjA4NTA1NjY4MX0.7O6wqADbLrhqrMLGLCUUgohXMOn5a44ievwRxV32kyw", "build": "e65ffc993c94"};</script>
+<script>window.STORYBOARD_FEEDBACK = {"supabaseUrl": "https://xwgtmynpkplxlltifhes.supabase.co", "supabaseAnonKey": "eyJhbGciOiJIUzI1NiIsInR5cCI6IkpXVCJ9.eyJpc3MiOiJzdXBhYmFzZSIsInJlZiI6Inh3Z3RteW5wa3BseGxsdGlmaGVzIiwicm9sZSI6ImFub24iLCJpYXQiOjE3Njk0ODA2ODEsImV4cCI6MjA4NTA1NjY4MX0.7O6wqADbLrhqrMLGLCUUgohXMOn5a44ievwRxV32kyw", "build": "ecc5191705f4"};</script>
 <script src="https://cdn.jsdelivr.net/npm/@supabase/supabase-js@2.116.0/dist/umd/supabase.min.js"></script>
 <script>
 /* Storyboard feedback — like / dislike / comment on every image, shared live through Supabase.
